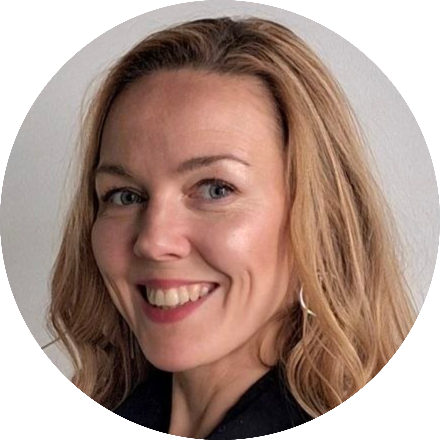
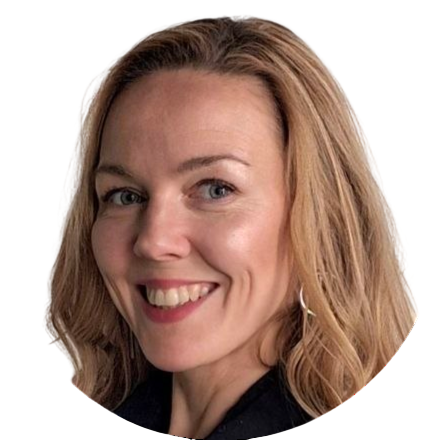
Add files via upload

diff --git a/index.html b/index.html
@@ -7,13 +7,13 @@
 <link href="https://fonts.googleapis.com/css2?family=Inter:wght@300;400;500;600;700;800;900&display=swap" rel="stylesheet">
 <style>
 *,*::before,*::after{box-sizing:border-box;margin:0;padding:0}
-:root{--bg:#0d0511;--ac:#ff2d7b;--ac2:#ff6baa;--ac3:#c850c0;--t:#f0e6f0;--td:#9a8a9e;--rs:12px;--inv-scale:1}
+:root{--bg:#0d0511;--ac:#ff2d7b;--ac2:#ff6baa;--ac3:#c850c0;--t:#f0e6f0;--td:#9a8a9e;--rs:12px;--inv-scale:1;--avail-h:auto}
 html{scroll-behavior:smooth;overscroll-behavior:none}
 body{font-family:'Inter',sans-serif;background:var(--bg);color:var(--t);min-height:100vh;line-height:1.6;
   -webkit-tap-highlight-color:transparent;touch-action:manipulation;overscroll-behavior:none;-webkit-touch-callout:none}
 
 .header{position:sticky;top:0;z-index:900;background:rgba(13,5,17,.97);backdrop-filter:blur(20px);border-bottom:1px solid rgba(255,45,123,.2);padding:34px 16px 12px}
-.h-title{text-align:center;font-size:1.5rem;font-weight:900;margin-bottom:8px;background:linear-gradient(135deg,#ff2d7b,#ff6baa,#c850c0);-webkit-background-clip:text;-webkit-text-fill-color:transparent;background-clip:text}
+.h-title{text-align:center;font-size:1.7rem;font-weight:900;margin-bottom:8px;background:linear-gradient(135deg,#ff2d7b,#ff6baa,#c850c0);-webkit-background-clip:text;-webkit-text-fill-color:transparent;background-clip:text}
 .h-user{display:flex;justify-content:center;margin-bottom:8px}
 .h-chip{display:flex;align-items:center;gap:8px;padding:6px 16px;border-radius:30px;background:rgba(255,45,123,.1);border:1px solid rgba(255,45,123,.3);cursor:pointer;transition:all .3s;font-size:.85rem;flex-wrap:wrap;justify-content:center}
 .h-chip:hover{background:rgba(255,45,123,.2)}
@@ -35,7 +35,6 @@ body{font-family:'Inter',sans-serif;background:var(--bg);color:var(--t);min-heig
 .h-btn-tg:hover{transform:translateY(-2px);box-shadow:0 4px 12px rgba(42,171,238,.4)}
 .h-info{display:flex;flex-direction:column;gap:5px;max-width:440px;margin:0 auto}
 
-/* ===== ПЛИТКИ ИНФО ===== */
 .info-grid{display:grid;grid-template-columns:1fr 1fr;gap:8px;max-width:440px;margin:0 auto}
 .info-tile{display:flex;align-items:center;gap:10px;padding:10px 12px;background:rgba(255,255,255,.05);border:1px solid rgba(255,255,255,.09);border-radius:14px;text-align:left;transition:all .3s}
 .info-tile.clickable{cursor:pointer}
@@ -66,16 +65,17 @@ body{font-family:'Inter',sans-serif;background:var(--bg);color:var(--t);min-heig
 .intro-overlay.hide{animation:introOut .4s ease forwards}
 @keyframes introOut{to{opacity:0}}
 
-/* ===== КОНТЕНТ: приглашение как единая плитка ===== */
-.content{position:relative;z-index:1;max-width:800px;margin:0 auto;padding:calc(10px * var(--inv-scale,1)) 14px}
+/* ===== КОНТЕНТ: плитка на всю свободную высоту ===== */
+.content{position:relative;z-index:1;max-width:800px;margin:0 auto;
+  padding:calc(10px * var(--inv-scale,1)) 14px;
+  height:var(--avail-h,auto);display:flex;flex-direction:column}
 .inv{background:rgba(255,255,255,.05);backdrop-filter:blur(20px);border:1px solid rgba(255,255,255,.09);border-radius:14px;
-  padding:calc(14px * var(--inv-scale,1)) calc(16px * var(--inv-scale,1))}
-.inv-head{display:flex;align-items:center;justify-content:center;gap:8px;
-  font-size:calc(.7rem * var(--inv-scale,1));color:var(--ac2);font-weight:700;
-  text-transform:uppercase;letter-spacing:1px;margin-bottom:calc(10px * var(--inv-scale,1))}
-.inv-head-ico{font-size:calc(1.15rem * var(--inv-scale,1))}
-.inv p{margin-bottom:calc(7px * var(--inv-scale,1));font-size:calc(.9rem * var(--inv-scale,1));line-height:calc(1.35 * var(--inv-scale,1))}
-.inv p:last-child{margin-bottom:0}
+  padding:calc(16px * var(--inv-scale,1)) calc(18px * var(--inv-scale,1));
+  flex:1;display:flex;flex-direction:column;justify-content:space-evenly}
+.inv-head{display:flex;align-items:center;justify-content:center;gap:10px;
+  font-size:1.7rem;color:var(--ac2);font-weight:900;letter-spacing:.5px}
+.inv-head-ico{font-size:1.5rem}
+.inv p{font-size:calc(.9rem * var(--inv-scale,1));line-height:calc(1.35 * var(--inv-scale,1))}
 .hl{background:linear-gradient(135deg,rgba(255,45,123,.2),rgba(200,80,192,.2));padding:1px 8px;border-radius:6px;font-weight:600;color:var(--ac2)}
 .content,.inv,.inv p,.hl{user-select:none;-webkit-user-select:none;-webkit-touch-callout:none;-webkit-user-drag:none}
 
@@ -93,7 +93,7 @@ body{font-family:'Inter',sans-serif;background:var(--bg);color:var(--t);min-heig
 .mclose{position:absolute;top:14px;right:14px;width:34px;height:34px;border-radius:50%;background:rgba(255,255,255,.08);border:1px solid rgba(255,255,255,.1);color:var(--td);font-size:1rem;cursor:pointer;display:flex;align-items:center;justify-content:center}
 .mclose:hover{background:rgba(255,45,123,.3);color:#fff}
 .mtitle{font-size:1.5rem;font-weight:800;margin-bottom:18px;background:linear-gradient(135deg,#ff2d7b,#c850c0);-webkit-background-clip:text;-webkit-text-fill-color:transparent;background-clip:text}
-.msub{color:var(--td);font-size:.85rem;margin:-10px 0 16px;text-align:center;font-style:italic}
+.msub{color:var(--td);font-size:.9rem;margin:-10px 0 16px;text-align:center;font-style:italic}
 
 .news-item{padding:14px;background:rgba(255,255,255,.04);border:1px solid rgba(255,255,255,.06);border-radius:var(--rs);margin-bottom:10px}
 .news-item.unread{border-left:3px solid var(--ac)}
@@ -234,7 +234,9 @@ body{font-family:'Inter',sans-serif;background:var(--bg);color:var(--t);min-heig
 
 @media(max-width:700px){
   .header{padding:30px 12px 10px}
-  .h-title{font-size:1.15rem;margin-bottom:6px}
+  .h-title{font-size:1.35rem;margin-bottom:6px}
+  .inv-head{font-size:1.35rem}
+  .inv-head-ico{font-size:1.2rem}
   .h-user{margin-bottom:6px}
   .h-chip{padding:5px 12px;font-size:.78rem;gap:6px}
   .h-nav{margin-bottom:8px;gap:8px}
@@ -400,8 +402,7 @@ body{font-family:'Inter',sans-serif;background:var(--bg);color:var(--t);min-heig
   <div class="mbox">
     <button class="mclose" onclick="closeM('m-wish')">✕</button>
     <div class="mtitle">🎁 Wish-лист</div>
-    <div class="msub">Несколько идей для подарка</div>
-    <p style="color:var(--td);margin-bottom:14px;font-size:.85rem">Можно выбрать <b>и подарок, и роль</b>.</p>
+    <div class="msub">Несколько идей для подарка (можно выбрать и подарок и роль)</div>
     <div class="mygift" id="myGift" style="display:none">
       <div class="mygift-title">🎁 Ваши брони:</div>
       <div id="myGiftLines"></div>
@@ -547,14 +548,15 @@ function updateCountdown(){
   else el.innerHTML='<b>🍓</b> Праздник прошёл';
 }
 
-// Масштабирование приглашения. Пересчёт только при загрузке и повороте —
-// НЕ при скролле/изменении адресной строки, чтобы блок не «прыгал».
+// Масштаб текста + высота плитки на всю свободную область.
+// Пересчёт только при загрузке и повороте — без прыжков при скролле.
 function fitInvitation(){
   var header=document.getElementById('mainHeader');
   var content=document.getElementById('mainContent');
   if(!header||!content)return;
   var root=document.documentElement;
   root.style.setProperty('--inv-scale','1');
+  root.style.setProperty('--avail-h','auto');
   var avail=window.innerHeight-header.offsetHeight-14;
   var natural=content.offsetHeight;
   var scale=1;
@@ -564,6 +566,7 @@ function fitInvitation(){
     if(scale<0.5)scale=0.5;
   }
   root.style.setProperty('--inv-scale',scale.toFixed(3));
+  root.style.setProperty('--avail-h',avail+'px');
 }
 var fitTimer=null;
 function scheduleFit(){
